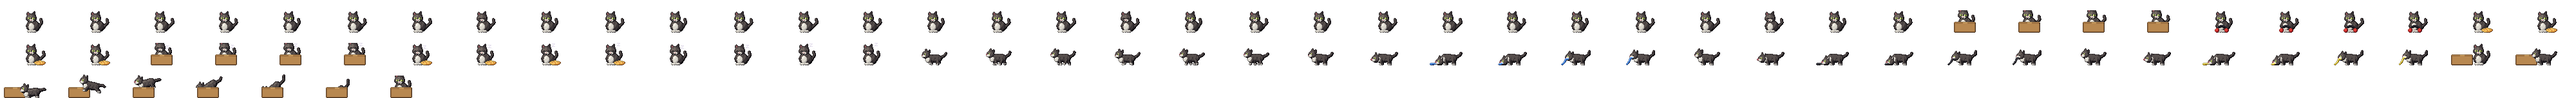
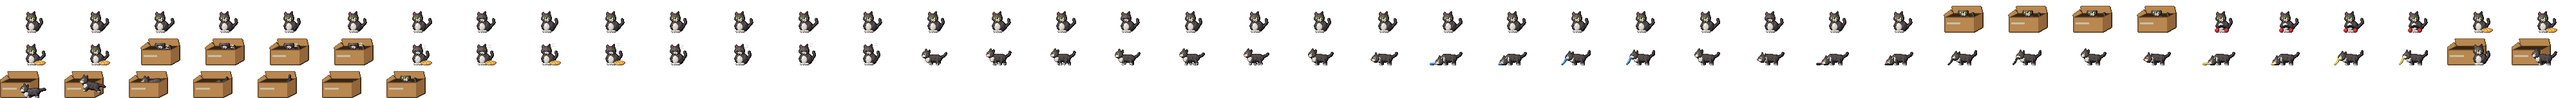
Suma Zero: en Diu es fica a la mateixa caixa gran que hi havia a terra (només li surt el cap), també quan hi salta i quan hi dorm (284)

diff --git a/games/suma-zero/adapters/benne/tools/hd/personatges.py b/games/suma-zero/adapters/benne/tools/hd/personatges.py
@@ -370,7 +370,7 @@ DW, DH = 75, 38
 DIU_PAD = (24, 12)
 DIU_PEUS = (13 + DIU_PAD[0], 25 + DIU_PAD[1])     # (37, 37)
 # La caixa, a l'esquerra d'en Diu (l'Iri és a la dreta): hi salta, i en acabar en Diu queda on és la caixa.
-DIU_CAIXA_DX = -21
+DIU_CAIXA_DX = -14                                  # (tasca 284: la caixa gran hi ha de cabre, al fotograma)
 CABLES = {
     'xarxa': M((10, 30, 70), (24, 70, 150), (50, 120, 220), (110, 170, 250)),
     'alimentacio': M((8, 8, 10), (22, 22, 26), (44, 44, 50), (80, 80, 88)),
@@ -480,14 +480,54 @@ def diu_mossega(k, cable):
     return fg.render()
 
 
+# La caixa gran (tasca 284): la mateixa caixa del router que hi ha a terra de l'estudi, de cartró, oberta i en 3/4,
+# amb en Diu ficat a dins (només li surt el cap). Abans era una capseta plana més petita que el gat. Es dibuixa en dues
+# parts, al fotograma gran (DW×DH): el que va darrere del gat (la solapa del fons i l'interior) i el davant.
+CARTRO = M((40, 24, 14), (90, 60, 30), (146, 102, 58), (184, 136, 80), (216, 172, 108))
+CARTRO_FOSC = M((16, 10, 6), (34, 22, 12), (56, 38, 20), (80, 56, 32))
+CAIXA_BOCA = 20                                     # la y de la vora de davant de la boca (el que és per sota, és a dins)
+
+
+def caixa_gran(dx=0):
+    """(darrere, davant): les dues parts de la caixa gran, amb el mig a DIU_PEUS + `dx`."""
+    cx, y1 = DIU_PEUS[0] + dx, DIU_PEUS[1]
+    b, t = CAIXA_BOCA, CAIXA_BOCA - 5               # la vora de davant i la del fons de la boca
+    darrere, davant = Fig(DW, DH), Fig(DW, DH)
+    darrere.poly([(cx - 12, t), (cx + 22, t), (cx + 20, t - 8), (cx - 14, t - 8)], CARTRO, 3.0, cont=(0.2, 0.8))  # la solapa del fons, dreta
+    darrere.poly([(cx - 22, b), (cx + 12, b), (cx + 22, t), (cx - 12, t)], CARTRO_FOSC, 1.6)               # l'interior
+    davant.poly([(cx - 22, b), (cx + 12, b), (cx + 12, y1), (cx - 22, y1)], CARTRO, 2.6, cont=(0.2, 0.8))  # la cara de davant
+    davant.poly([(cx + 12, b), (cx + 22, t), (cx + 22, y1 - 5), (cx + 12, y1)], CARTRO, 1.7, cont=(0.2, 0.8))  # el costat
+    davant.poly([(cx - 22, b), (cx - 12, t), (cx - 15, t - 4), (cx - 23, b - 3)], CARTRO, 3.2, cont=(0.2, 0.8))  # la solapa de l'esquerra
+    davant.poly([(cx - 20, b + 6), (cx - 4, b + 6), (cx - 4, b + 8), (cx - 20, b + 8)], M((150, 140, 120), (200, 190, 170)), 2.0)  # la cinta
+    return darrere.render(), davant.render()
+
+
+def diu_caixa(cua=0, dorm=False, dx=0):
+    """En Diu dins la caixa gran, al fotograma gran: el cap i les orelles per sobre de la boca."""
+    gat = diu(cua=0 if dorm else cua, parpelleja=dorm)
+    darrere, davant = caixa_gran(dx)
+    alt = Image.new('RGBA', gat.size, (0, 0, 0, 0))   # assegut a dins: el cap i el coll, per sobre de la boca
+    alt.alpha_composite(gat, (0, -9))
+    if dorm:
+        alt = zzz(alt, cua)
+    out = Image.new('RGBA', darrere.size, (0, 0, 0, 0))
+    out.alpha_composite(darrere)
+    out.alpha_composite(diu_gran(alt, dx))
+    out.alpha_composite(davant)
+    return out
+
+
 def diu_salta(k):
     """Salta dins la caixa, que és a DIU_CAIXA_DX: s'aixeca, s'ajup, salta i s'hi fica de cap. k: 0-8; el
     darrer és el d'«Caixa» a la posició de la caixa (en acabar, en Diu es posa allà)."""
     dx = DIU_CAIXA_DX
-    caixa = diu_gran(caixa_sola(), dx)
+    darrere, davant = caixa_gran(dx)
+    caixa = Image.new('RGBA', darrere.size, (0, 0, 0, 0))
+    caixa.alpha_composite(darrere)
+    caixa.alpha_composite(davant)
     sentat = diu_gran(diu(cua=k % 4))
     if k == 8:
-        return diu_gran(diu_estat('caixa'), dx)
+        return diu_caixa(dx=dx)
     out = Image.new('RGBA', caixa.size, (0, 0, 0, 0))
     if k == 0:                                       # la caixa ja hi és; en Diu, assegut, la mira
         out.alpha_composite(caixa)
@@ -512,13 +552,14 @@ def diu_salta(k):
         out.alpha_composite(caixa)
         out.alpha_composite(gat)
     else:                                            # hi entra: el que és per sota de la boca de la caixa, ja és a dins
-        top = caixa.getbbox()[1] + 1
+        top = round(CAIXA_BOCA * caixa.height / DH) + 1
         P_ = gat.load()
         for yy in range(top, gat.height):
             for xx in range(gat.width):
                 P_[xx, yy] = (0, 0, 0, 0)
+        out.alpha_composite(darrere)                 # (la solapa del fons, darrere del gat; el davant, al davant)
         out.alpha_composite(gat)
-        out.alpha_composite(caixa)
+        out.alpha_composite(davant)
     return out
 
 

diff --git a/games/suma-zero/adapters/benne/tools/draw_characters.py b/games/suma-zero/adapters/benne/tools/draw_characters.py
@@ -397,10 +397,13 @@ def gat(cid='diu'):
     for f in 'DLU':
         tags.append((f'Idle{f}', idle))
         tags.append((f'Talk{f}', talk))
-    for estat in ('caixa', 'auricular', 'pizza'):
+    # (dins la caixa, la caixa gran: la mateixa que hi ha a terra de l'estudi; tasca 284)
+    tags.append(('Caixa', [P_.diu_caixa(cua=k % 4) for k in range(4)]))
+    for estat in ('auricular', 'pizza'):
         tags.append((estat.capitalize(), [G(P_.diu_estat(estat, cua=k % 4)) for k in range(4)]))
     # Escena 2: dorm dins el que li han donat (l'auricular ja l'ha tornat)
-    for estat, tag in (('caixa', 'CaixaDorm'), ('pizza', 'PizzaDorm'), (None, 'Dorm')):
+    tags.append(('CaixaDorm', [P_.diu_caixa(cua=k, dorm=True) for k in range(4)]))
+    for estat, tag in (('pizza', 'PizzaDorm'), (None, 'Dorm')):
         tags.append((tag, [G(P_.diu_estat(estat, cua=k, dorm=True)) for k in range(4)]))
     tags.append(('WalkL', [P_.diu_camina(k) for k in range(6)]))
     for cable in P_.CABLES:
